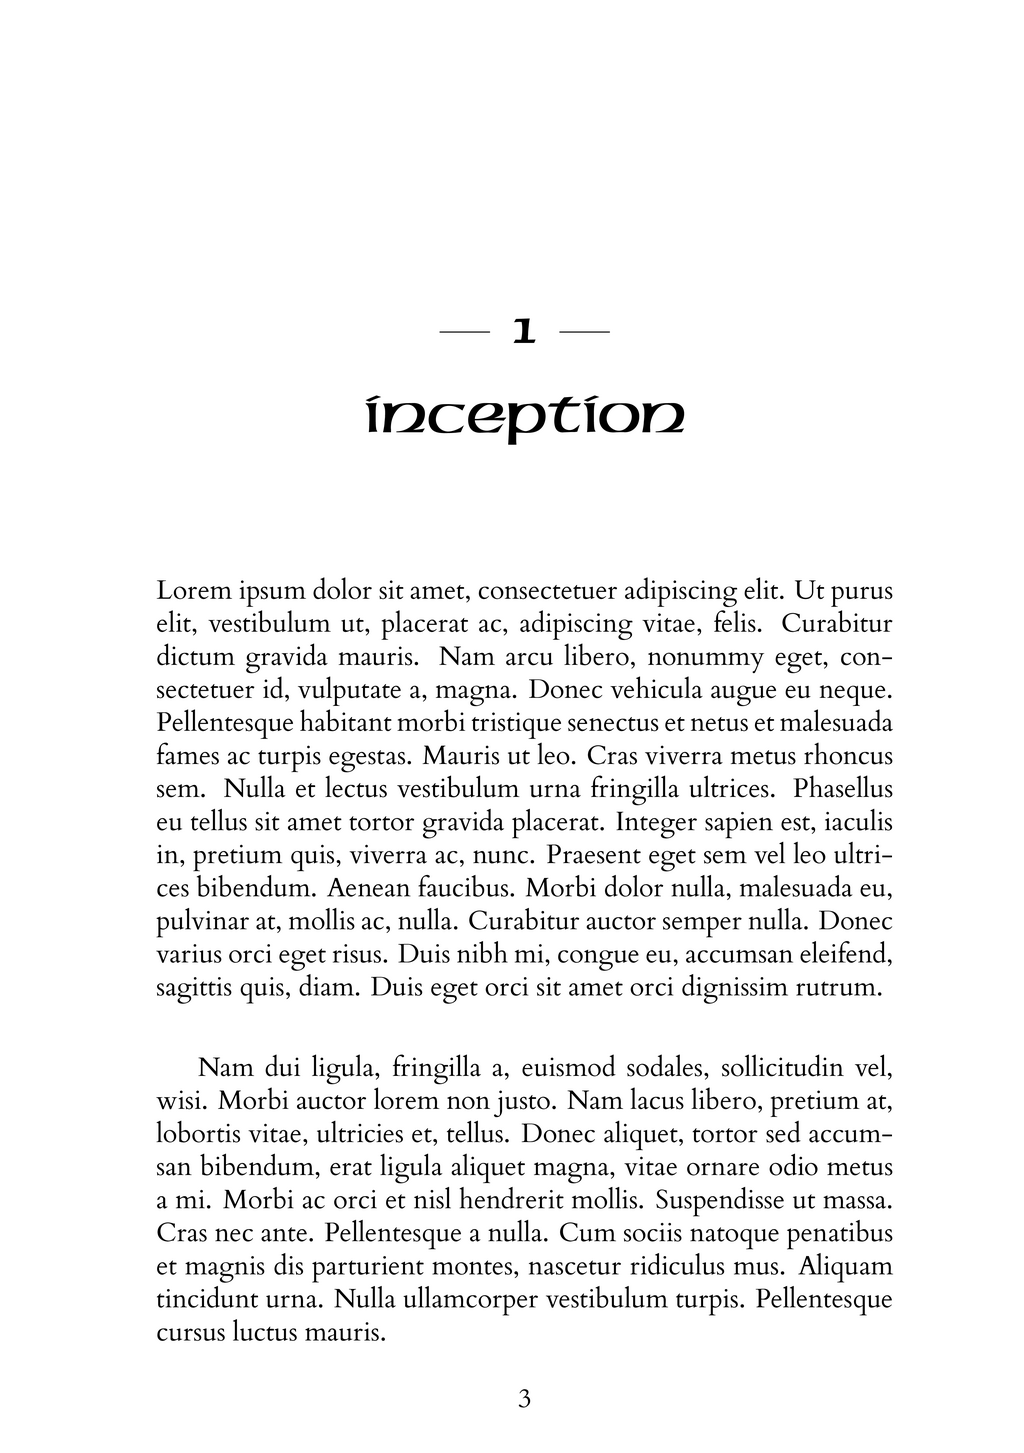
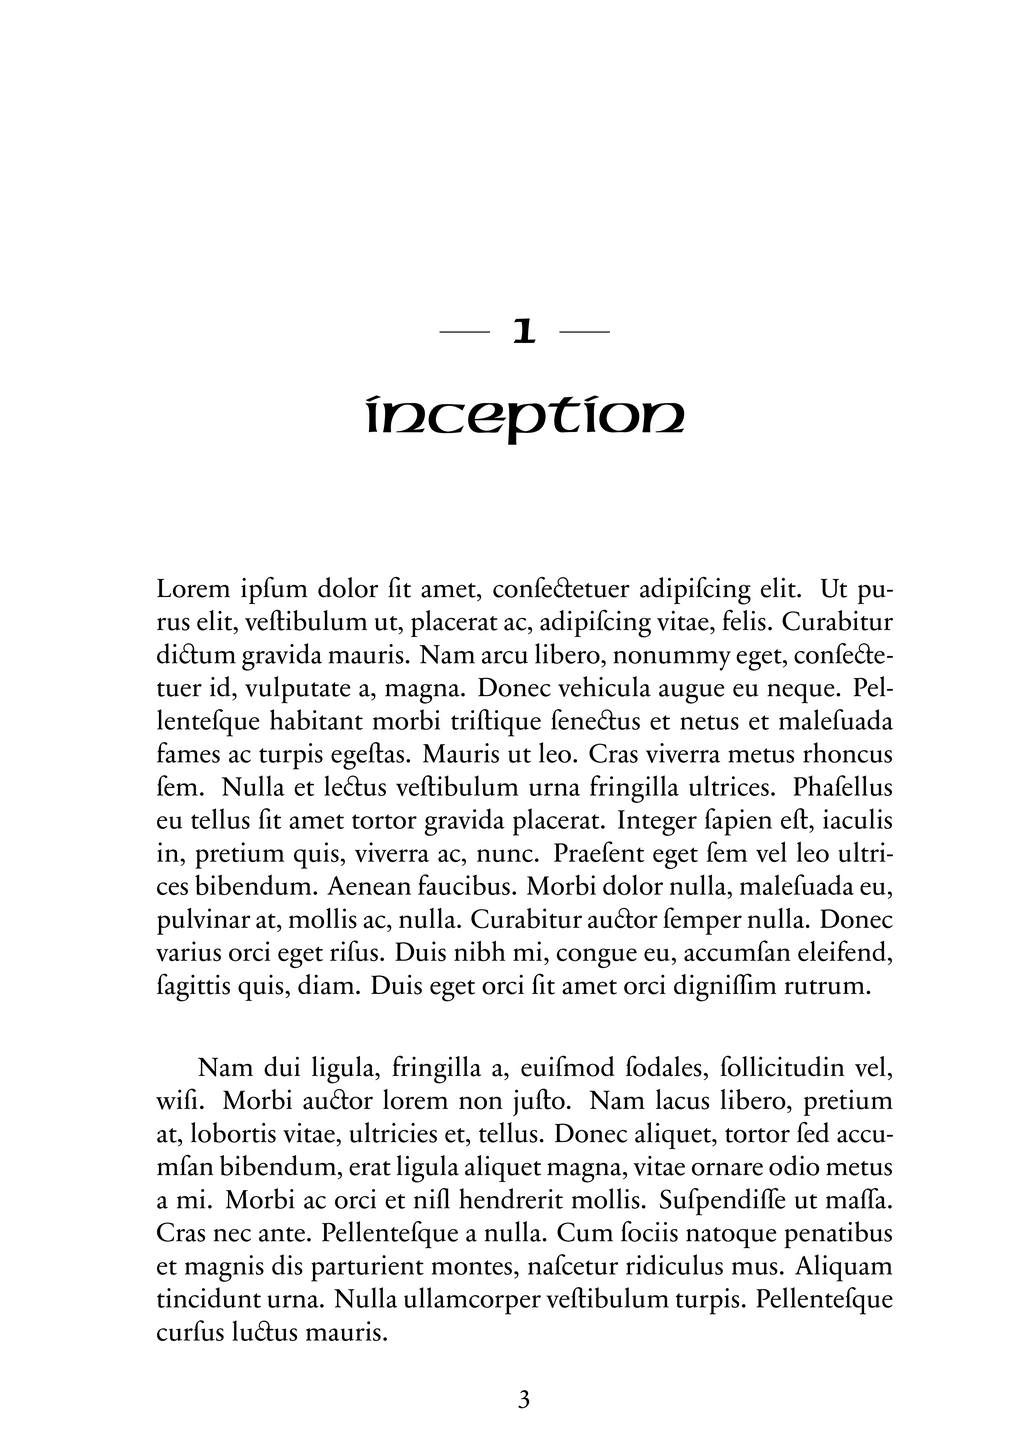
feat(medial s): added the option to use a renaissance medial s (#12)

Changed region(s): [[0.1562, 0.4026, 0.875, 0.9291]]

diff --git a/fantasy-a5.tex b/fantasy-a5.tex
@@ -4,5 +4,5 @@
 
 % gutter margin should be .875″ or 22.5mm, outer margin should be .75″ or 19mm
 % this makes the text block = 148.5 - 22.5 - 19 = 107mm wide
-\usepackage[fantasy]{rpg}
+\usepackage[fantasy,medials]{rpg}
 \input{common/character-background-content}

diff --git a/fantasy.tex b/fantasy.tex
@@ -3,5 +3,5 @@
 % http://www.ctan.org/pkg/memoir
 \documentclass[a4paper,twoside,twocolumn,10pt]{memoir}
 
-\usepackage[fantasy]{rpg}
+\usepackage[fantasy, wallpaper]{rpg}
 \input{common/character-background-content}
